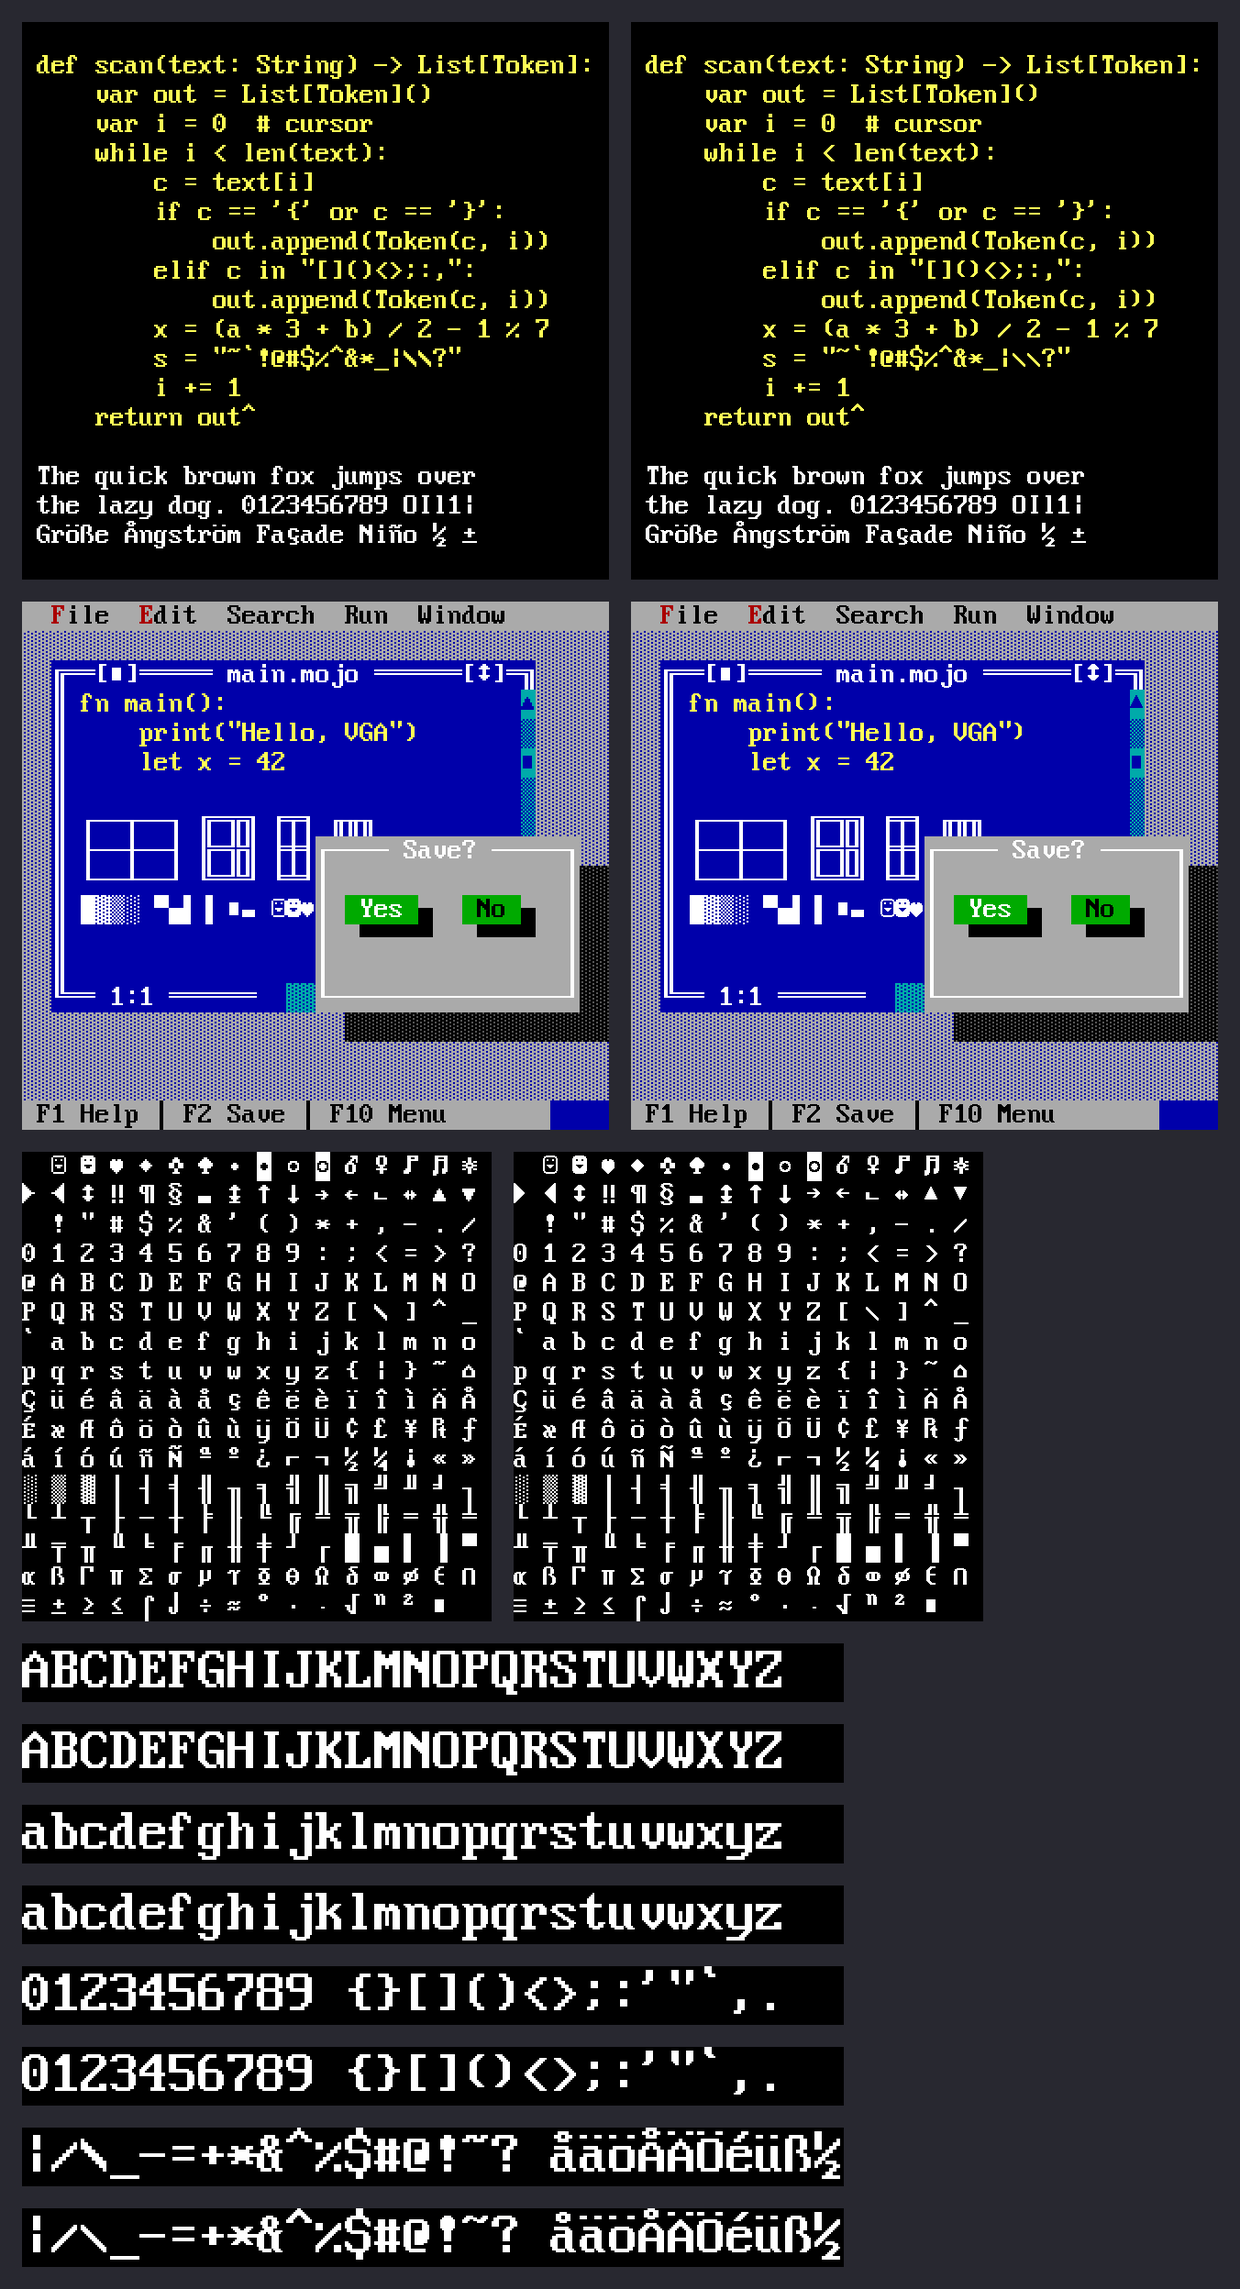
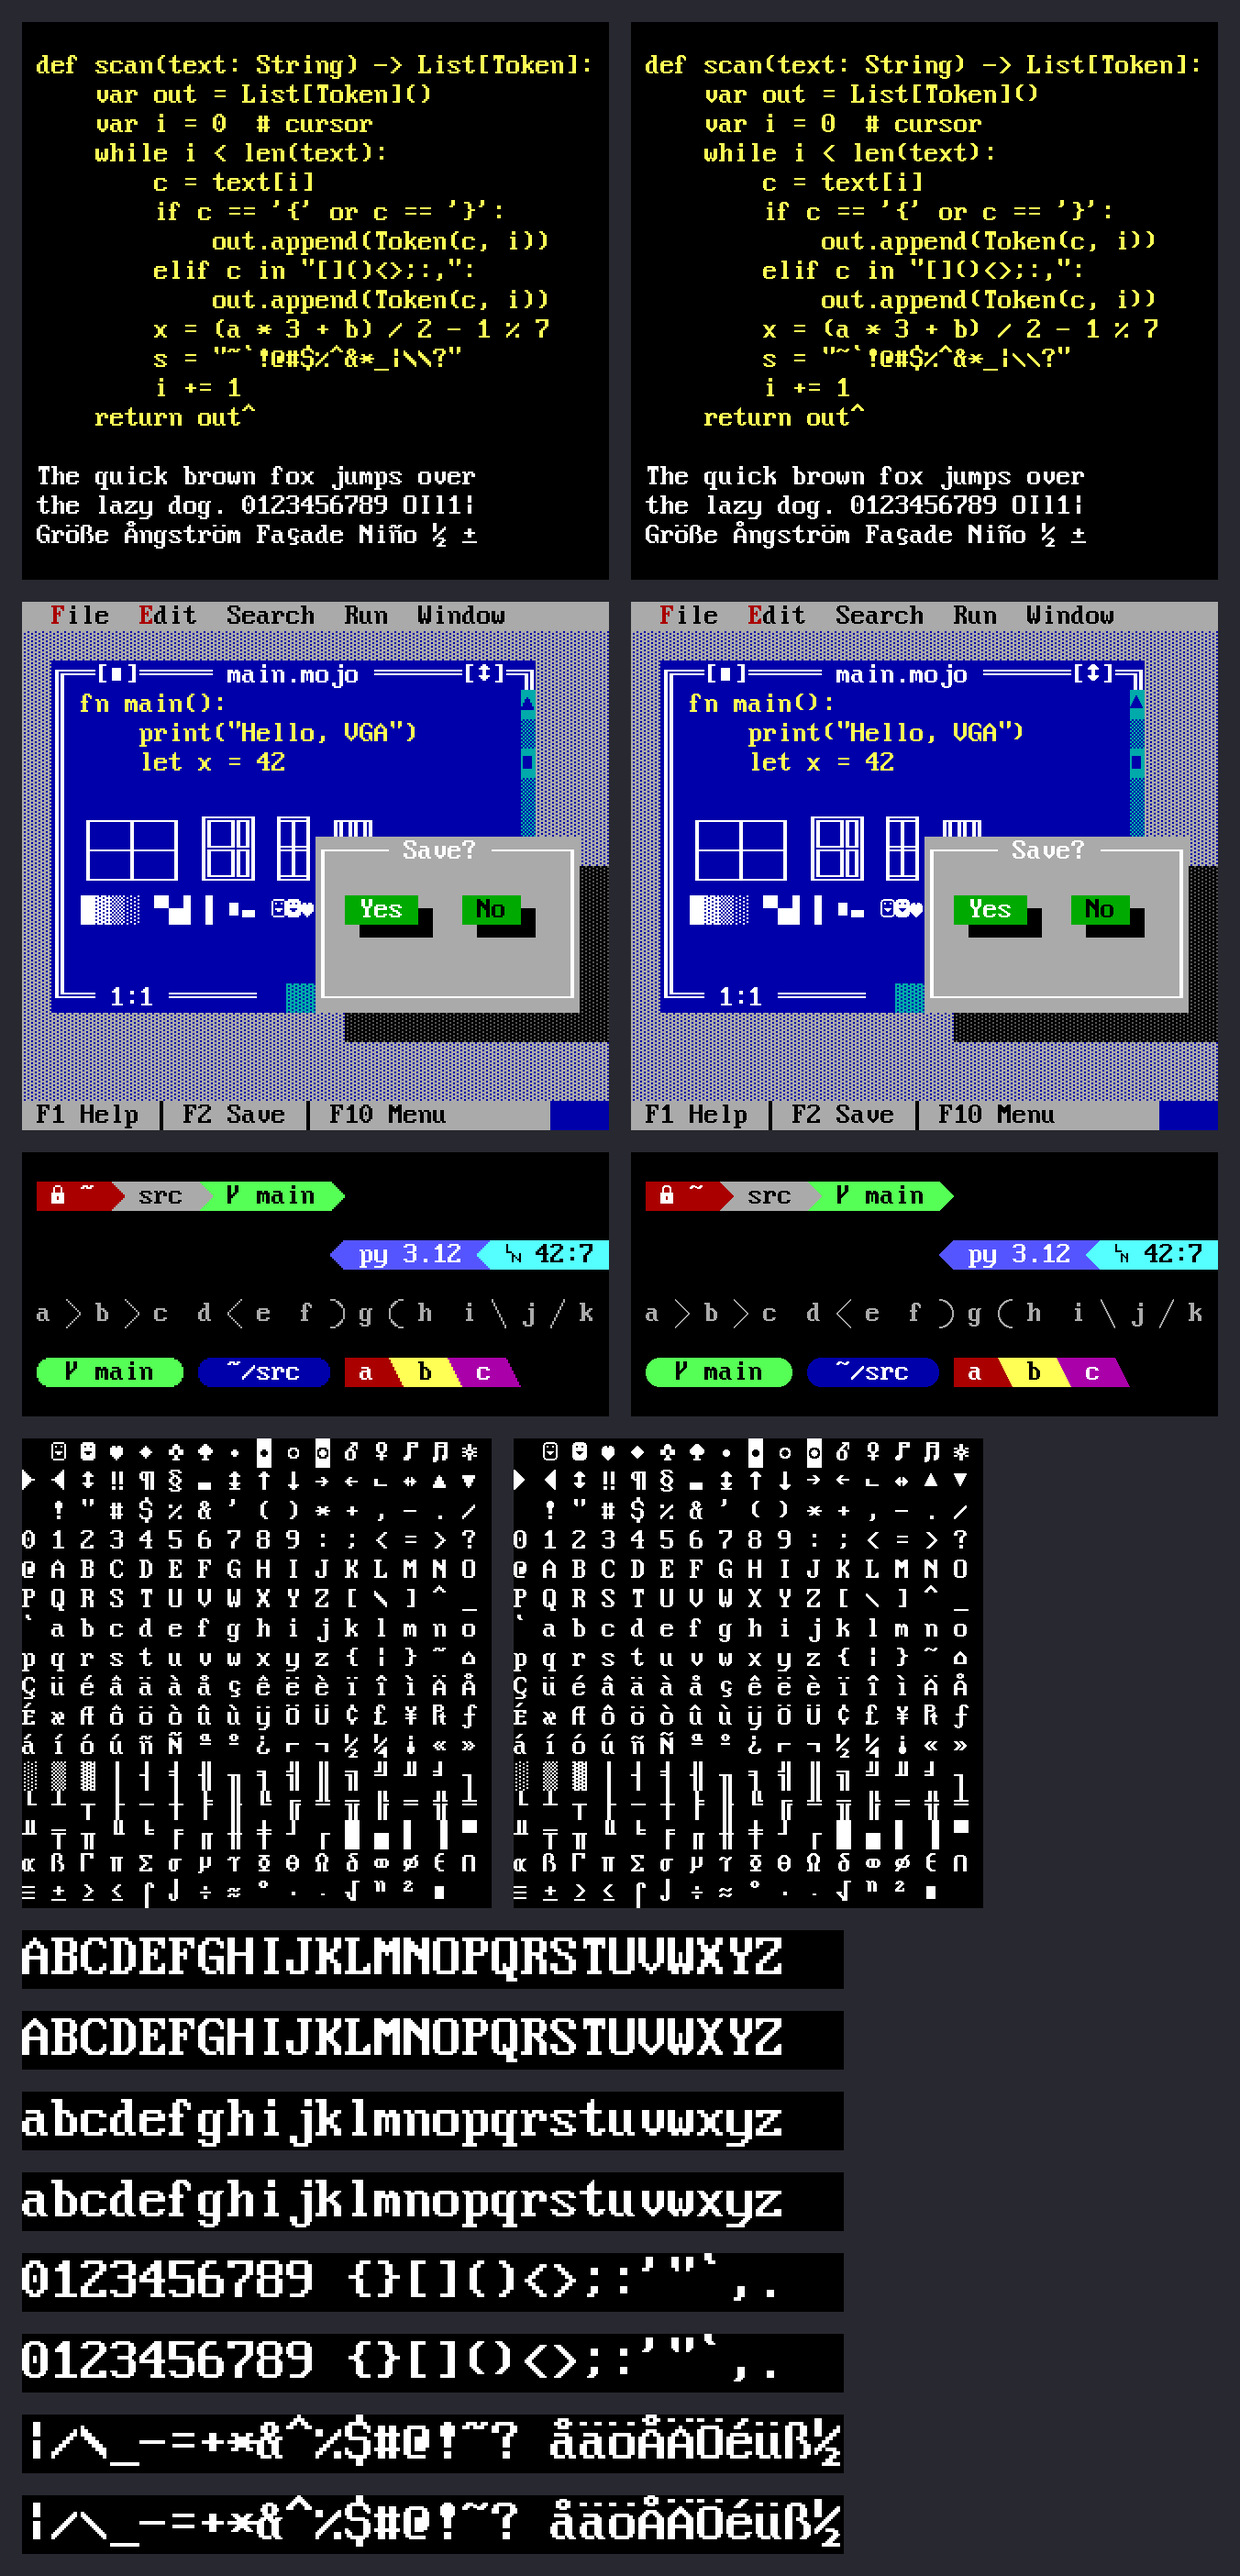
Powerline glyphs in the preview

diff --git a/tools/preview.py b/tools/preview.py
@@ -135,6 +135,37 @@ def window_screen():
     return s
 
 
+def powerline_screen():
+    s = Screen(40, 9, "W", "k")
+    x = 1
+    left = [(" \ue0a2 ~ ", "W", "r"), (" src ", "k", "w"), (" \ue0a0 main ", "k", "G")]
+    for i, (text, fg, bg) in enumerate(left):
+        s.put(x, 1, text, fg, bg)
+        x += len(text)
+        s.put(x, 1, "\ue0b0", bg, left[i + 1][2] if i + 1 < len(left) else "k")
+        x += 1
+    x = 21
+    right = [(" py 3.12 ", "W", "B"), (" \ue0a1 42:7 ", "k", "C")]
+    for i, (text, fg, bg) in enumerate(right):
+        s.put(x, 3, "\ue0b2", bg, right[i - 1][2] if i else "k")
+        s.put(x + 1, 3, text, fg, bg)
+        x += len(text) + 1
+    s.put(1, 5, "a \ue0b1 b \ue0b1 c  d \ue0b3 e  f \ue0b5 g \ue0b7 h  i \ue0b9 j \ue0bb k", "w", "k")
+    x = 1
+    for text, fg, bg in [(" \ue0a0 main ", "k", "G"), (" ~/src ", "W", "b")]:
+        s.put(x, 7, "\ue0b6", bg, "k")
+        s.put(x + 1, 7, text, fg, bg)
+        x += len(text) + 1
+        s.put(x, 7, "\ue0b4", bg, "k")
+        x += 2
+    for text, fg, bg, nxt in [(" a ", "W", "r", "Y"), (" b ", "k", "Y", "m"), (" c ", "W", "m", "k")]:
+        s.put(x, 7, text, fg, bg)
+        x += len(text)
+        s.put(x, 7, "\ue0b8", bg, nxt)
+        x += 1
+    return s
+
+
 def table_screen():
     s = Screen(32, 16, "W", "k")
     cps = cp437_codepoints()
@@ -172,7 +203,7 @@ def main():
         img.paste(b, (a.width + gap, 0))
         return img
 
-    blocks = [pair(code_screen()), pair(window_screen()), pair(table_screen())]
+    blocks = [pair(code_screen()), pair(window_screen()), pair(powerline_screen()), pair(table_screen())]
     z = zoom_screen()
     for i in range(z.rows):
         line = Screen(z.cols, 1)
